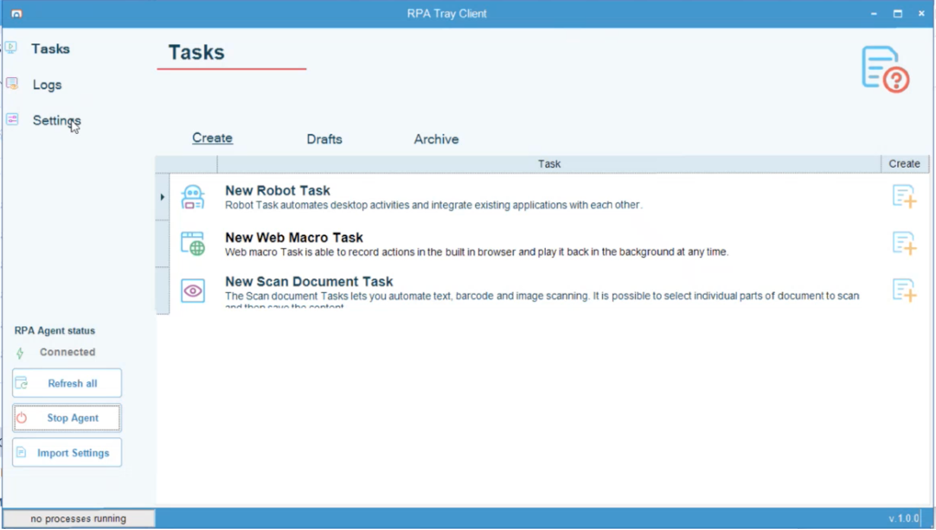
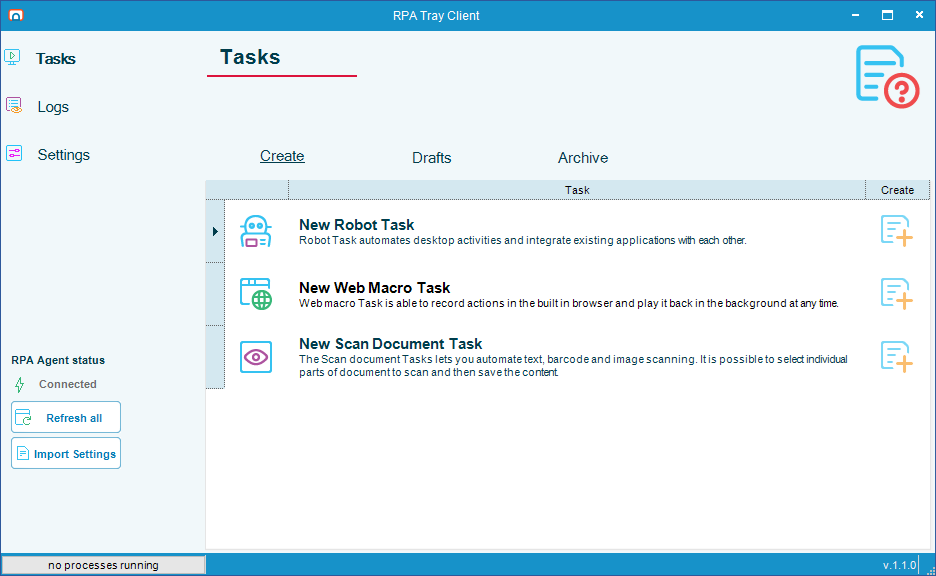
Add 1.1.0 release notes and refresh install/task docs
- Add 1.1.0 changelog entries (OpCon-independent operation, copy/delete
  workflows, ACS plugin update, VisualCron 12.3.1, bug fixes)
- Add 1.1.0 update considerations covering plugin schema change and
  removal of the OpCon Settings tab
- Remove Solution Manager Setup and OpCon API configuration steps from
  installation doc now that RPA no longer requires an OpCon user
- Restructure Execution Context doc: clarify credential assignment,
  pull "After Execution Behaviors" out as a shared section across
  Single User and Multi-User machines
- Refresh RPAInstaller Step 4/5/7 screenshots

Changed region(s): [[0.0, 0.0, 1.0, 1.0], [0.1859, 0.2415, 0.2479, 0.2717], [0.1549, 0.483, 0.1859, 0.5132]]

diff --git a/docs/installation-opcon-rpa.md b/docs/installation-opcon-rpa.md
@@ -1,7 +1,7 @@
 ---
 sidebar_label: 'Installation - OpCon RPA Agent and Netcom Relay'
 title: Install OpCon RPA Agent and Netcom Relay
-description: "Step-by-step installation of OpCon RPA, including Solution Manager setup, Netcom Relay (for cloud), the ACS plugin, the RPA Agent, and the connection between OpCon and the RPA Agent."
+description: "Step-by-step installation of OpCon RPA, including adding an RPA agent in Solution Manager, Netcom Relay (for cloud), the ACS plugin, the RPA Agent, and the connection between OpCon and the RPA Agent."
 tags:
   - Procedural
   - System Administrator
@@ -13,19 +13,22 @@ hide_title: true
 
 ## What is it?
 
-This page walks you through installing OpCon RPA on a Windows system and connecting it to OpCon. The procedure has six steps:
+This page walks you through installing OpCon RPA on a Windows system and connecting it to OpCon. The procedure has five steps:
 
-1. Create the RPA user in Solution Manager.
-2. Add an RPA agent in Solution Manager.
-3. Install Netcom Relay (cloud installations only).
-4. Copy the ACS Plugin DLL into the OpCon plugins directory.
-5. Run the RPA Agent installer.
-6. Connect the RPA Agent to OpCon.
+1. Add an RPA agent in Solution Manager.
+2. Install Netcom Relay (cloud installations only).
+3. Copy the ACS Plugin DLL into the OpCon plugins directory.
+4. Run the RPA Agent installer.
+5. Connect the RPA Agent to OpCon.
 
 During the procedure, you will switch between two interfaces:
 
 - The OpCon **Solution Manager** web interface.
 - The **RPA Tray Client** that opens after installation on the Windows host.
+
+:::note No OpCon user required
+Starting in 1.1.0, OpCon RPA stores tasks locally on the RPA Agent and no longer requires a dedicated OpCon user or an OpCon API connection. You do not need to create an RPA user in Solution Manager.
+:::
 
 ## Before you begin
 
@@ -39,36 +42,20 @@ Have these three files ready:
 
 You also need:
 
-- A Solution Manager user account that can add users and grant the `Role_ocadm` role.
+- A Solution Manager user account with privileges to add an RPA agent.
 - Local administrator rights on the Windows system where the RPA Agent will run.
 
 :::note On-premises vs. cloud
 Netcom Relay is required only when integrating RPA with a cloud instance of OpCon CORE Automate / Solution Manager. On-premises installations skip Step 3.
 :::
 
-## Step 1 — Create the RPA user in Solution Manager
-
-To create the user the RPA Agent uses to communicate with OpCon, complete the following steps:
-
-1. Log in to Solution Manager with a user who can add users and grant the `Role_ocadm` role.
-2. Go to **Library** > **Access Management** > **Users**.
-3. Select **+** to add a new user.
-4. On the **Settings** tab, enter:
-   - **First Name:** `RPA`
-   - **Last Name:** `User`
-   - **Username:** `RPAUser`
-   - **Password:** a unique value — write it down. You will use it again in Step 6.
-5. Select the **Save** button.
-6. Select the **Roles** tab, select the `Role_ocadm` role, and select the **Save** button.
-7. Select the **Settings** tab, select the **Enable external tokens** option, and select the **Save** button.
-
-## Step 2 — Add an RPA agent in Solution Manager
+## Step 1 — Add an RPA agent in Solution Manager
 
 To define the RPA agent that OpCon routes jobs to, complete the following steps:
 
 1. In Solution Manager, go to **Library** > **Agents**.
 2. Select **Add** to add a new Agent.
-3. Give the agent a name and write it down. You will use it again in Step 6.
+3. Give the agent a name.
 4. Select **RPA** from the **Type** list above **General Settings**.
 5. When prompted, enter the Netcom Relay name. You must do this before you can open the **RPA Settings** page:
    - **Cloud:** enter the name you used during Relay installation.
@@ -76,9 +63,9 @@ To define the RPA agent that OpCon routes jobs to, complete the following steps:
 
    ![Solution Manager prompt for the Netcom Relay name](../static/img/netcomname.png)
 
-6. Open the **RPA Settings** section at the bottom of the page. Leave this page open — you will return to it in Step 6.
+6. Open the **RPA Settings** section at the bottom of the page. Leave this page open — you will return to it in Step 5.
 
-## Step 3 — Install Netcom Relay (cloud only)
+## Step 2 — Install Netcom Relay (cloud only)
 
 If you are installing OpCon RPA for cloud, install Netcom Relay before continuing. For full instructions, see [Netcom Relay setup](https://help.smatechnologies.com/opcon-relay#install).
 
@@ -86,9 +73,9 @@ If you are installing OpCon RPA for cloud, install Netcom Relay before continuin
 Netcom Relay installation requires local administrator rights. When prompted to allow the app to make changes to your device, select **Yes**.
 :::
 
-After Relay is installed, return to this page and continue with Step 4.
+After Relay is installed, return to this page and continue with Step 3.
 
-## Step 4 — Copy the ACS Plugin DLL
+## Step 3 — Copy the ACS Plugin DLL
 
 To copy the ACS Plugin DLL into the OpCon plugins directory, complete the following steps:
 
@@ -97,7 +84,7 @@ To copy the ACS Plugin DLL into the OpCon plugins directory, complete the follow
    - **Cloud:** open `C:\ProgramData\OpConxps\` and drill down to the `Plugins` directory.
 2. Copy `sma.acs.OpConRPA.dll` into the plugins directory.
 
-## Step 5 — Install the RPA Agent
+## Step 4 — Install the RPA Agent
 
 To install the RPA Agent on the host Windows system, complete the following steps:
 
@@ -105,11 +92,11 @@ To install the RPA Agent on the host Windows system, complete the following step
 2. When prompted to allow this app to make changes to your device, select **Yes**.
 3. When the installation finishes, the RPA Tray Client opens automatically.
 
-## Step 6 — Connect the RPA Agent to OpCon
+## Step 5 — Connect the RPA Agent to OpCon
 
-In this step, you switch between the RPA Tray Client (on the Windows host) and Solution Manager (in your browser, on the page you left open in Step 2).
+In this step, you switch between the RPA Tray Client (on the Windows host) and Solution Manager (in your browser, on the page you left open in Step 1).
 
-### 6a. Copy the RPA HTTPS URI into Solution Manager
+### 5a. Copy the RPA HTTPS URI into Solution Manager
 
 1. In the RPA Tray Client, select **Settings** in the left menu.
 
@@ -119,11 +106,11 @@ In this step, you switch between the RPA Tray Client (on the Windows host) and S
 
    ![RPA Tray Client Settings screen showing the RPA Agent tab and the HTTPS URI field](../static/img/RPAInstaller_Step5.png)
 
-3. In Solution Manager, paste the URI into the **RPA Server URI** field of the **RPA Settings** section you opened in Step 2.
+3. In Solution Manager, paste the URI into the **RPA Server URI** field of the **RPA Settings** section you opened in Step 1.
 
    ![Solution Manager RPA Settings section showing the RPA Server URI field](../static/img/RPAInstaller_Step6.png)
 
-### 6b. Generate and apply the API token
+### 5b. Generate and apply the API token
 
 1. Back in the RPA Tray Client, select **Generate Token**. The token is automatically copied to your clipboard.
 
@@ -135,24 +122,7 @@ In this step, you switch between the RPA Tray Client (on the Windows host) and S
 
 3. Save your Solution Manager changes.
 
-### 6c. Configure the OpCon API connection
-
-1. In the RPA Tray Client **Settings** screen, select the **OpCon API** tab.
-
-   ![RPA Tray Client Settings screen showing the OpCon API tab](../static/img/RPAInstaller_Step10.png)
-
-2. Fill in the fields:
-
-   | Field | Value |
-   |-------|-------|
-   | **OpCon API URL** | The URL of your Solution Manager instance. For on-premises, this is typically the base domain. |
-   | **OpCon API User** | The `RPAUser` username you created in Step 1. |
-   | **OpCon API Password** | The password you set when creating the RPA user in Step 1. |
-   | **OpCon Agent Name** | The agent name you set in Step 2. |
-
-3. Select **Get OpCon API Token** in the lower-right corner of the RPA Tray Client.
-
-The RPA Agent displays a success message when it can reach the OpCon API. Setup is complete.
+After you save, OpCon can communicate with the RPA Agent. Setup is complete.
 
 ## Verify the installation
 
@@ -164,19 +134,16 @@ After the success message:
 ## FAQs
 
 **Do I need Netcom Relay if I am not using OpCon Cloud?**
-No. Netcom Relay is required only for cloud integrations with OpCon CORE Automate / Solution Manager. On-premises installations skip Step 3.
+No. Netcom Relay is required only for cloud integrations with OpCon CORE Automate / Solution Manager. On-premises installations skip Step 2.
 
 **Where do I place the ACS Plugin DLL on an on-premises installation?**
 For on-premises installations, place `sma.acs.OpConRPA.dll` in `C:\ProgramData\OpConxps\SAM\plugins`.
 
-**Which role does the RPA user need?**
-The RPA user needs the `Role_ocadm` role and the **Enable external tokens** option turned on.
+**Do I need to create an OpCon user for RPA?**
+No. Starting in 1.1.0, OpCon RPA stores tasks locally on the RPA Agent and no longer requires an OpCon user or an OpCon API connection.
 
 **What do I enter for the Netcom Relay name on an on-premises installation?**
 Type `<Default>`. Solution Manager requires a value before it lets you open the RPA Settings page.
-
-**The OpCon API URL — is that my Solution Manager URL?**
-Yes. For on-premises, this is typically the base domain of your Solution Manager instance.
 
 ## Glossary
 
@@ -184,8 +151,7 @@ Yes. For on-premises, this is typically the base domain of your Solution Manager
 |------|-----------|
 | ACS Plugin DLL | The OpCon Application Connection Studio plugin file (`sma.acs.OpConRPA.dll`) used by the OpCon SAM to communicate with the RPA Agent. |
 | RPA Agent | The agent that performs robot task automation on a target Windows machine. |
-| RPA Tray Client | The local Windows interface that runs alongside the RPA Agent, used to configure HTTPS URI, API tokens, and OpCon API connection details. |
+| RPA Tray Client | The local Windows interface that runs alongside the RPA Agent, used to configure the HTTPS URI and API token. |
 | Netcom Relay | The OpCon component that routes communication between the OpCon Server and the RPA Agent for cloud installations. |
 | OpCon Web Installer (OWI) | A tool that bundles OpCon installer artifacts, including the ACS Plugin DLL and the RPA Agent Installer. |
-| Role_ocadm | The OpCon role required by the RPA user to access RPA features. |
-| Solution Manager | The OpCon web interface used to configure users, agents, and schedules. |
+| Solution Manager | The OpCon web interface used to configure agents and schedules. |

diff --git a/docs/release-notes.md b/docs/release-notes.md
@@ -5,6 +5,72 @@ doc_type: conceptual
 
 # OpCon RPA Release Notes
 
+## Spring 26
+
+### 1.1.0
+
+**NOTE**: This release requires an ACS Plugin DLL update. The task storage model also changed — tasks are now stored locally on the RPA Agent instead of in the OpCon Script Repository, and an OpCon user is no longer required. See [Update - OpCon RPA Agent and ACS plugin](./update-opcon-rpa.md) for the required post-update tasks.
+
+2026 April
+
+# OpCon RPA Release 1.1.0 – What's New
+
+## Summary
+
+Release 1.1.0 lets OpCon RPA run independently of OpCon by moving task storage to a local database, adds Copy and Delete actions for workflows on the Draft and Archive grids, updates the ACS plugin, upgrades VisualCron to 12.3.1, and resolves Tray Client CPU, database-compatibility, and error-reporting issues.
+
+## OpCon-Independent Operation
+
+### What's New
+
+:eight_spoked_asterisk: **CON-459: OpCon-Independent Operation** OpCon RPA can be deployed and run without OpCon. Task storage moved to a local database, removing the dependency on the OpCon API.
+
+### Why This Matters
+
+OpCon RPA can be adopted in environments that do not run OpCon, broadening where robot automation can be deployed.
+
+## Workflow Management
+
+### What's New
+
+:eight_spoked_asterisk: **CON-69: Copy and Delete Existing Workflows** Added Copy and Delete actions on the Draft and Archive grids. Copy supports copying all versions, copying a specific version as Version 1, or copying a specific version as a draft. Per-row Delete and Run buttons are disabled while a task is running, to prevent accidental actions on a running task. Task version numbers are incremented automatically on save.
+
+### Why This Matters
+
+You can duplicate and remove workflows directly from the grids, and automatic version numbering keeps task history consistent.
+
+## Platform & Dependencies
+
+### What's New
+
+:eight_spoked_asterisk: **CON-1039: ACS Plugin Update** Updated the ACS plugin.
+
+:eight_spoked_asterisk: **CON-1044: VisualCron Upgrade** Upgraded VisualCron from 12.2.x to 12.3.1.
+
+:white_check_mark: **CON-1355: Magick.NET Dependency Upgrade** Upgraded Magick.NET to 14.13.0 to resolve a vulnerable dependency.
+
+### Why This Matters
+
+The ACS plugin and VisualCron engine are current, and a vulnerable image-processing dependency is removed, keeping OpCon RPA aligned with supported and secure component versions.
+
+## RPA Agent & Tray Client
+
+### What's New
+
+:white_check_mark: **CON-1497: Tray Client High CPU Fix** Fixed a Tray Client busy-loop that caused high CPU usage when polling the Agent for heartbeat status with no active tasks.
+
+:white_check_mark: **CON-1493: Database Format Compatibility Check** The Agent now detects a newer (v1.2.0) database format at startup and fails fast rather than corrupting data on a downgrade.
+
+:white_check_mark: **CON-716: Duplicate Tray Client Instance Prevention** Prevented starting duplicate instances of the RPA Tray Client.
+
+:white_check_mark: **CON-1539: Single Tray Client Instance Per User Session** Limited the Tray Client to a single instance per user session.
+
+:white_check_mark: **CON-1209: Script Endpoint Error Message Propagation** The normalized error message is now shown in the UI when the script endpoint returns an error.
+
+### Why This Matters
+
+The Tray Client no longer consumes excess CPU when idle or runs as duplicate instances, the Agent protects against data corruption on downgrade, and script endpoint errors surface clearly in the UI.
+
 ## Winter 26
 
 ### 1.0.2

diff --git a/docs/update-opcon-rpa.md b/docs/update-opcon-rpa.md
@@ -37,6 +37,15 @@ You need:
 
 Read the entry for the version you are updating to **before** running the installer. Each entry tells you whether the ACS plugin must be updated and whether any post-update work is required.
 
+### 1.1.0
+
+| Topic | What to know |
+|-------|-------------|
+| ACS plugin update | **Required.** The task schema changed so that tasks are fetched from the OpCon RPA server for querying and running. Update the ACS Plugin DLL. |
+| Task storage | Tasks are now stored locally on the RPA Agent instead of in the OpCon Script Repository. Existing tasks remain available in the local database. |
+| OpCon user | OpCon RPA no longer requires an OpCon user. The OpCon Settings tab has been removed from the Tray Client. Stop the RPA Agent before removing the OpCon user that was associated with it. |
+| Existing master jobs | Existing master jobs continue to run. When you edit one, OpCon displays upgrade instructions. |
+
 ### 1.0.2
 
 | Topic | What to know |